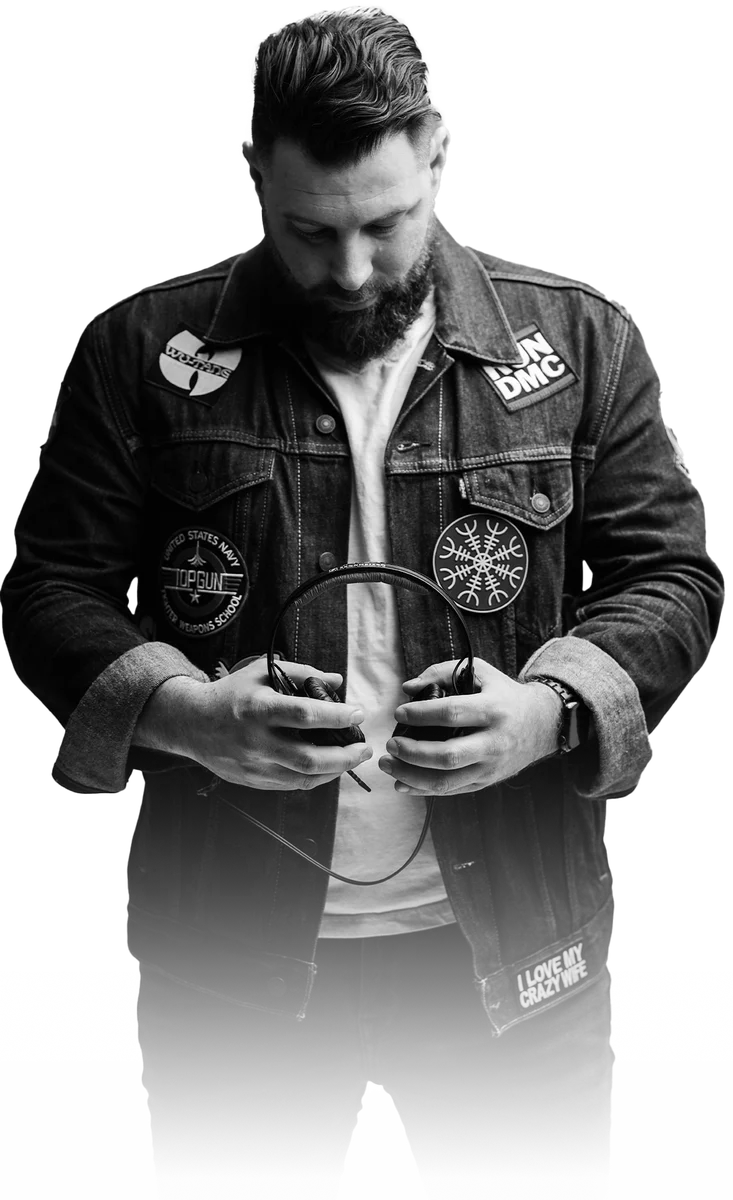
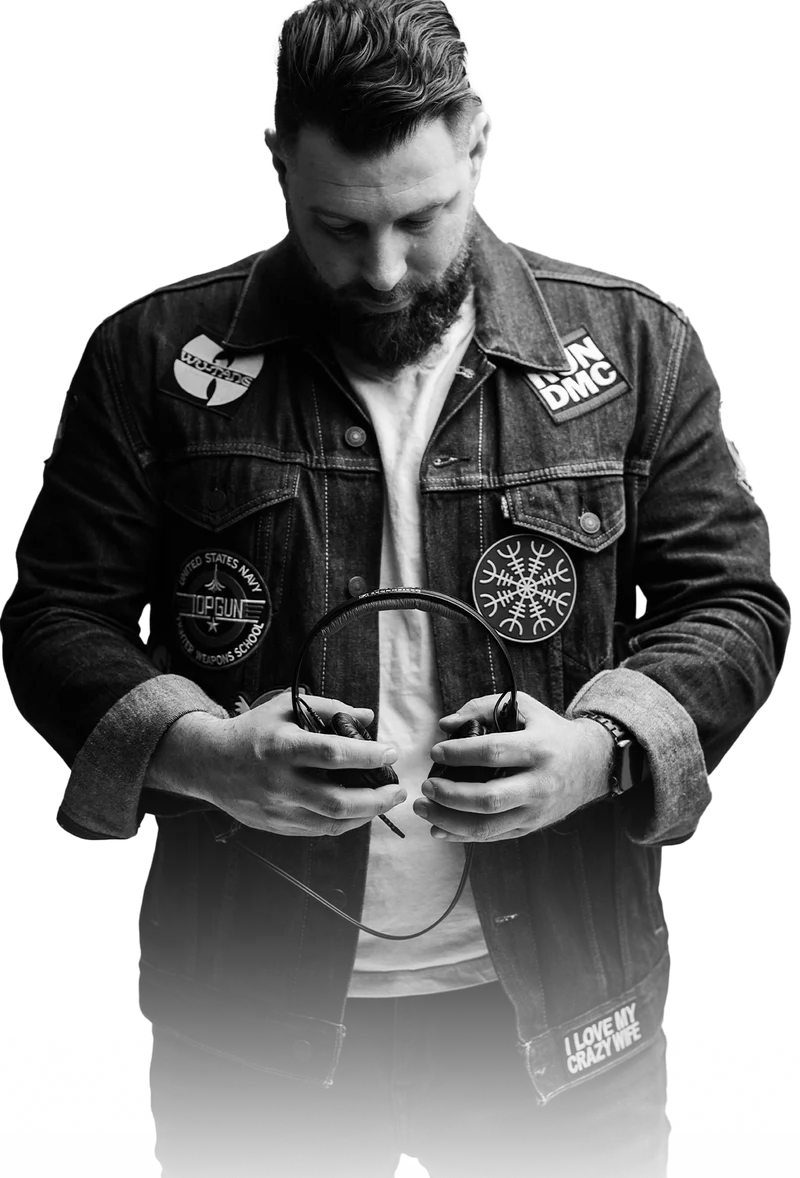
Events hero — recrop full body + object-position top

diff --git a/index.html b/index.html
@@ -239,7 +239,7 @@ nav{position:fixed;top:0;left:0;width:100%;z-index:100;padding:1rem 3rem;display
 .bm-hero h2 em{font-style:italic;color:var(--or)}
 .bm-hero p{color:var(--gris-texte);line-height:1.85;font-weight:300;font-size:.95rem;margin-bottom:1rem}
 .bm-visual{aspect-ratio:4/5;border-radius:3px;overflow:hidden;position:relative}
-.bm-visual img{width:100%;height:100%;object-fit:cover}
+.bm-visual img{width:100%;height:100%;object-fit:cover;object-position:top}
 .bm-visual .bm-gradient{position:absolute;inset:0}
 .bm-visual .bm-placeholder{position:absolute;inset:0;display:none;flex-direction:column;align-items:center;justify-content:center;gap:.8rem;z-index:1}
 .bm-visual.no-photo .bm-placeholder{display:flex}
